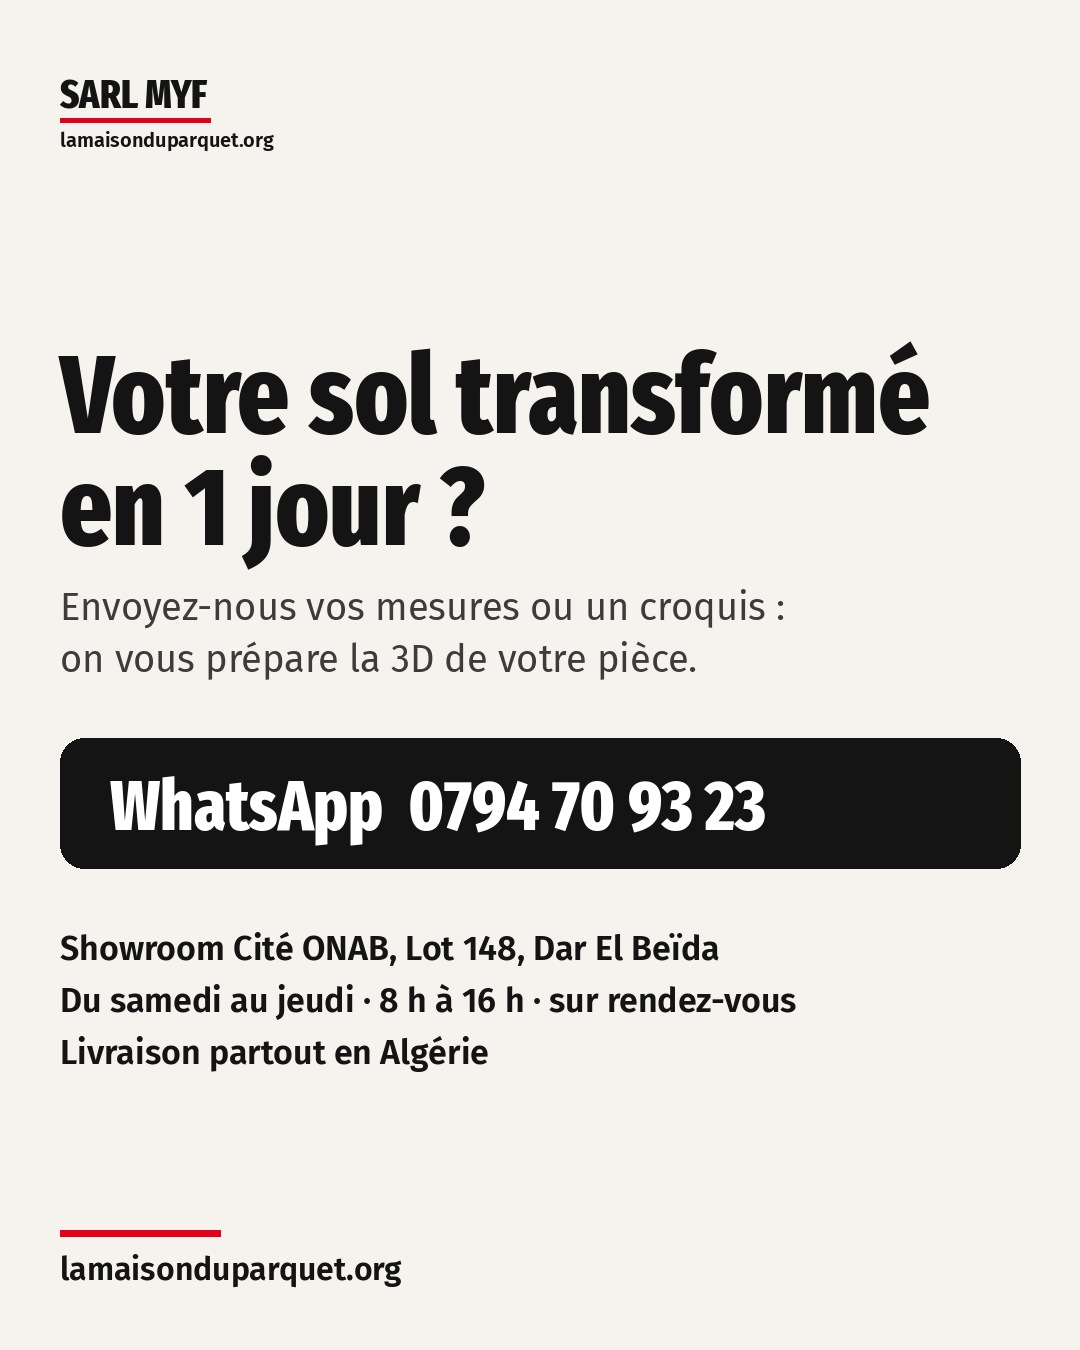
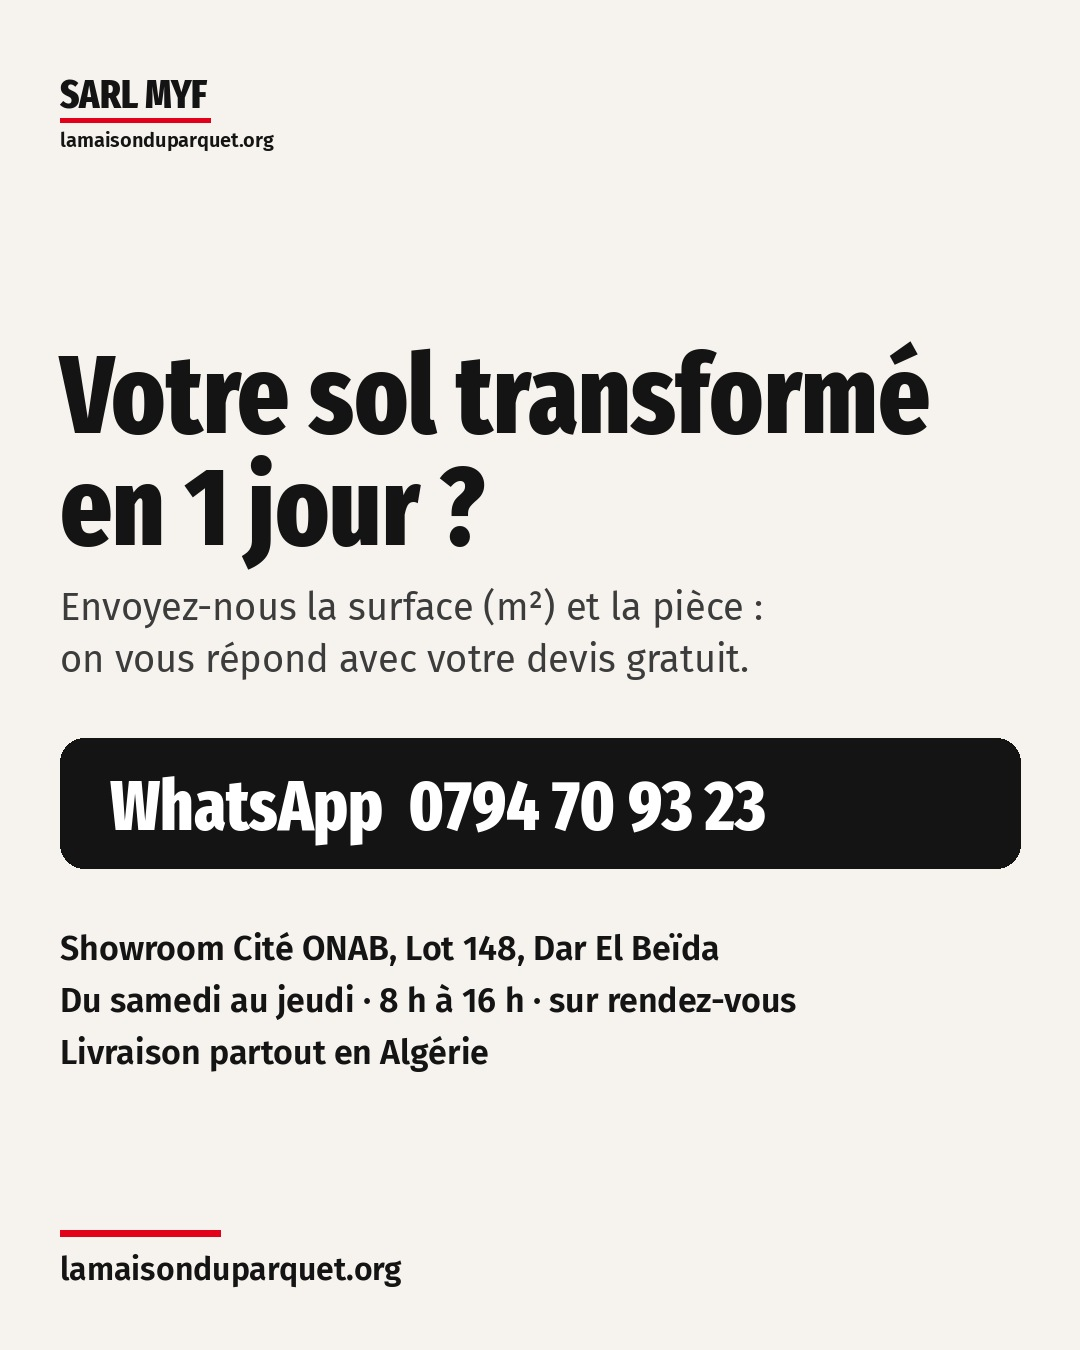
Instagram parquet uniquement : 21 stories pour les stories à la une, 5 couvertures, 2 carrousels, plan daté 12/11-28/11
Claude-Session: https://claude.ai/code/session_01XoeDEVkNFXq4oExWHbkpus

Changed region(s): [[0.1833, 0.4356, 0.7028, 0.4978]]

diff --git a/ads/insta/stories.py b/ads/insta/stories.py
@@ -1,0 +1,114 @@
+"""Pack de stories parquet 1080x1920 pour remplir les stories à la une (0 crédit).
+
+Usage : python3 stories.py <dossier de sortie>
+Sources : visuels déjà signés (ads/visuels/out, out2, catalogue/out). Aucun prix.
+"""
+import sys, os
+from PIL import Image, ImageDraw, ImageFont, ImageFilter
+
+OUT = sys.argv[1]
+R = os.path.dirname(os.path.abspath(__file__)); A = os.path.join(R, "..")
+FD = os.path.join(A, "..", "site", "assets", "fonts")
+def F(n, s): return ImageFont.truetype(os.path.join(FD, n), s)
+TITLE, SEMI, REG = "fira-sans-extra-condensed-800.woff2", "fira-sans-600.woff2", "fira-sans-400.woff2"
+RED, INK, CREAM = (226, 0, 26), (20, 20, 20), (246, 243, 238)
+W, H = 1080, 1920
+V = lambda p: os.path.join(A, "visuels", p)
+
+def wrap(d, txt, font, maxw):
+    out, line = [], ""
+    for w in txt.split():
+        t = (line + " " + w).strip()
+        if d.textlength(t, font=font) <= maxw: line = t
+        else: out.append(line); line = w
+    return out + [line]
+
+def fill(im, w, h):
+    r = max(w / im.width, h / im.height); im = im.resize((round(im.width * r), round(im.height * r)), Image.LANCZOS)
+    x, y = (im.width - w) // 2, (im.height - h) // 2; return im.crop((x, y, x + w, y + h))
+
+def frame(d, dark):
+    c = (255, 255, 255) if dark else INK
+    d.rectangle([60, 90, 70, 150], fill=RED); d.text((88, 92), "LA MAISON DU PARQUET", font=F(SEMI, 30), fill=c)
+    d.text((88, 128), "Parquet EGGER · en stock à Alger", font=F(REG, 24), fill=c)
+    d.rounded_rectangle([60, H - 210, W - 60, H - 90], radius=26, fill=INK)
+    d.text((100, H - 190), "WhatsApp 0794 70 93 23", font=F(TITLE, 54), fill=(255, 255, 255))
+    d.text((100, H - 128), "lamaisonduparquet.org · showroom Dar El Beïda", font=F(SEMI, 24), fill=(220, 220, 220))
+
+def photo(src, titre, sous, path):
+    im = Image.open(src).convert("RGB")
+    bg = fill(im, W, H).filter(ImageFilter.GaussianBlur(40)); bg = Image.blend(bg, Image.new("RGB", (W, H), (15, 12, 10)), 0.45)
+    d = ImageDraw.Draw(bg); frame(d, True)
+    ft = F(TITLE, 84); y = 230
+    for l in wrap(d, titre, ft, W - 120): d.text((60, y), l, font=ft, fill=(255, 255, 255)); y += 88
+    if sous:
+        for l in wrap(d, sous, F(REG, 36), W - 120): d.text((60, y + 6), l, font=F(REG, 36), fill=(235, 230, 222)); y += 46
+    top, bot = y + 40, H - 250
+    r = min((W - 120) / im.width, (bot - top) / im.height); fg = im.resize((round(im.width * r), round(im.height * r)), Image.LANCZOS)
+    m = Image.new("L", fg.size, 0); ImageDraw.Draw(m).rounded_rectangle([0, 0, fg.width, fg.height], radius=28, fill=255)
+    bg.paste(fg, ((W - fg.width) // 2, top + (bot - top - fg.height) // 2), m)
+    bg.save(path, quality=93)
+
+def texte(fond, kicker, titre, corps, path):
+    src = Image.open(fond).convert("RGB")
+    src = src.crop((0, 0, int(src.width * 0.72), int(src.height * 0.72)))   # retire le logo du coin bas-droit
+    bg = fill(src, W, H)
+    d = ImageDraw.Draw(bg); frame(d, False)
+    ft, fb = F(TITLE, 96), F(REG, 40)
+    lt = wrap(d, titre, ft, W - 200); lb = sum([wrap(d, p, fb, W - 200) for p in corps], [])
+    h = 90 + 60 + len(lt) * 100 + 30 + len(lb) * 54 + 70
+    y0 = (H - h) // 2
+    d.rounded_rectangle([60, y0, W - 60, y0 + h], radius=34, fill=CREAM)
+    d.rectangle([60, y0 + 50, 72, y0 + 120], fill=RED); d.text((100, y0 + 54), kicker, font=F(SEMI, 32), fill=RED)
+    y = y0 + 140
+    for l in lt: d.text((100, y), l, font=ft, fill=INK); y += 100
+    y += 30
+    for l in lb: d.text((100, y), l, font=fb, fill=(55, 55, 55)); y += 54
+    bg.save(path, quality=93)
+
+def cover(word, sub, path):
+    im = Image.new("RGB", (1080, 1920), CREAM); d = ImageDraw.Draw(im)
+    cx, cy, r = 540, 960, 300
+    d.ellipse([cx - r, cy - r, cx + r, cy + r], fill=(255, 255, 255), outline=RED, width=14)
+    f = F(TITLE, 120 if len(word) < 8 else 96)
+    tw = d.textlength(word, font=f); d.text((cx - tw / 2, cy - 80), word, font=f, fill=INK)
+    fs = F(SEMI, 40); tw = d.textlength(sub, font=fs); d.text((cx - tw / 2, cy + 60), sub, font=fs, fill=RED)
+    im.save(path, quality=93)
+
+if __name__ == "__main__":
+    B = lambda *p: os.path.join(OUT, *p)
+    for g in ["1-decors", "2-showroom", "3-pose", "4-questions", "5-devis", "couvertures"]: os.makedirs(B(g), exist_ok=True)
+    C = lambda f: V(os.path.join("catalogue", "out", f))
+    # 1. DÉCORS : les 5 références en stock
+    photo(C("0-en-stock.jpg"), "5 décors en stock à Alger", "Glissez pour les découvrir", B("1-decors", "01.jpg"))
+    for i, (f, t, s) in enumerate([("el2863-asgil.jpg", "Chêne Asgil miel · EL2863", "Chaleureux, idéal pour le salon"),
+                                   ("el1061-achensee.jpg", "Chêne Achensee · EL1061", "Clair et apaisant, parfait en chambre"),
+                                   ("el2970-nord.jpg", "Chêne du Nord naturel · EL2970", "Des nœuds pleins de caractère"),
+                                   ("el2416-melba.jpg", "Chêne Melba beige · EL2416", "Version Aqua : cuisine ouverte, entrée"),
+                                   ("el1055-bardolino.jpg", "Chêne Bardolino · EL1055", "Ni trop clair ni trop foncé, intemporel")], 2):
+        photo(C(f), t, s, B("1-decors", f"{i:02d}.jpg"))
+    # 2. SHOWROOM : vraies photos
+    for i, (f, t, s) in enumerate([("out2/29.jpg", "Notre showroom à Dar El Beïda", "Venez voir et toucher les décors"),
+                                   ("out2/16.jpg", "Les décors côte à côte", "Comparez les teintes en vrai, à la lumière du jour"),
+                                   ("out2/17.jpg", "Clair ou foncé ?", "On pose les lames au sol pour vous aider à choisir"),
+                                   ("out2/18.jpg", "En stock, prêt à livrer", "Livraison partout en Algérie")], 1):
+        photo(V(f), t, s, B("2-showroom", f"{i:02d}.jpg"))
+    texte(V("out2/30.jpg"), "SUR RENDEZ-VOUS", "Venez nous voir", ["Cité ONAB, Lot 148, Dar El Beïda.", "Du samedi au jeudi, de 8 h à 16 h.", "Google Maps : « La Maison du Parquet EGGER Dar El Beïda »."], B("2-showroom", "05.jpg"))
+    # 3. POSE
+    texte(V("out/12.jpg"), "LA POSE", "Sur votre carrelage", ["Pas besoin de casser : les lames se clipsent sur une sous-couche, directement sur le carrelage existant (plan et bien fixé)."], B("3-pose", "01.jpg"))
+    texte(V("out/15.jpg"), "LA POSE", "En une journée", ["Une pièce est posée en un jour. Pas de démolition, pas de séchage : vous l'utilisez le soir même."], B("3-pose", "02.jpg"))
+    texte(V("out2/25.jpg"), "LA POSE", "Sans gravats ni poussière", ["Pas de marteau-piqueur, pas de colle. Vos meubles reviennent tout de suite."], B("3-pose", "03.jpg"))
+    photo(V("out/03.jpg"), "Votre carrelage, transformé", "Le même sol, sans travaux", B("3-pose", "04.jpg"))
+    # 4. QUESTIONS (FAQ du site)
+    for i, (fond, q, rep) in enumerate([("out2/26.jpg", "Et dans la cuisine ?", "Choisissez le Chêne Melba beige EL2416 en version Aqua : il résiste à l'eau pendant 24 heures. En salle de bain, où l'eau stagne, on le déconseille."),
+                                        ("out/15.jpg", "Classe 31 ou 32 ?", "Classe 31 : parfait en chambre. Classe 32 : usage intense, pour le salon, l'entrée ou la cuisine."),
+                                        ("out2/19.jpg", "D'où vient le parquet ?", "Des usines européennes du groupe EGGER. Les cartons portent la mention Made in Germany. Majorité de bois, sans PVC, Écolabel européen."),
+                                        ("out/12.jpg", "Pourquoi sur rendez-vous ?", "Pour qu'un conseiller soit là rien que pour vous pendant 30 minutes : décors en stock, conseils et devis sur place, sans attente.")], 1):
+        texte(V(fond), "VOS QUESTIONS", q, [rep], B("4-questions", f"{i:02d}.jpg"))
+    # 5. DEVIS
+    texte(V("out2/25.jpg"), "DEVIS GRATUIT", "Votre devis en 3 étapes", ["1. La surface de chaque pièce (m²).", "2. La pièce et le décor qui vous plaît.", "3. On vous répond sur WhatsApp, ou on vous reçoit au showroom."], B("5-devis", "01.jpg"))
+    texte(V("out/15.jpg"), "ÉCRIVEZ-NOUS", "0794 70 93 23", ["Sur WhatsApp, envoyez simplement « PARQUET » avec vos m².", "Livraison partout en Algérie."], B("5-devis", "02.jpg"))
+    # Couvertures des stories à la une
+    for i, (w, s) in enumerate([("DÉCORS", "5 en stock"), ("SHOWROOM", "Dar El Beïda"), ("POSE", "sur carrelage"), ("QUESTIONS", "vos réponses"), ("DEVIS", "WhatsApp")], 1):
+        cover(w, s, B("couvertures", f"{i}-{w.lower().replace('é', 'e')}.jpg"))
+    print("ok")

diff --git a/ads/insta/build.py b/ads/insta/build.py
@@ -58,13 +58,13 @@ def slide_cover(img, kicker, title, sub, path):
     d.text((60, H - 96), "Glissez  >>", font=F(SEMI, 34), fill=(255, 255, 255))
     im.save(path, quality=93)
 
-def slide_cta(path, titre="Votre projet sur mesure ?"):
+def slide_cta(path, titre="Votre projet sur mesure ?", lignes=("Envoyez-nous vos mesures ou un croquis :", "on vous prépare la 3D de votre pièce.")):
     im = Image.new("RGB", (W, H), CREAM); d = ImageDraw.Draw(im)
     logo(d, 60, 70)
     y = 330
     for l in wrap(d, titre, F(TITLE, 110), W - 120): d.text((60, y), l, font=F(TITLE, 110), fill=INK); y += 112
     y += 30
-    for t in ["Envoyez-nous vos mesures ou un croquis :", "on vous prépare la 3D de votre pièce."]:
+    for t in lignes:
         d.text((60, y), t, font=F(REG, 38), fill=(60, 60, 60)); y += 52
     y += 50
     d.rounded_rectangle([60, y, W - 60, y + 130], radius=24, fill=INK)
@@ -97,7 +97,7 @@ if __name__ == "__main__":
     slide_cta(f"{c}/06.jpg")
     # ---------- 2. Slide de fin réutilisable (cuisine, chambre) ----------
     slide_cta(os.path.join(OUT, "fin-carrousel-meubles.jpg"))
-    slide_cta(os.path.join(OUT, "fin-carrousel-parquet.jpg"), "Votre sol transformé en 1 jour ?")
+    slide_cta(os.path.join(OUT, "fin-carrousel-parquet.jpg"), "Votre sol transformé en 1 jour ?", ("Envoyez-nous la surface (m²) et la pièce :", "on vous répond avec votre devis gratuit."))
     # ---------- 3. Stories à la une ----------
     h = os.path.join(OUT, "stories-a-la-une"); os.makedirs(h, exist_ok=True)
     for i, (w, s) in enumerate([("PARQUET", "5 décors en stock"), ("MEUBLES", "sur mesure"), ("AVANT", "/ après"), ("SHOWROOM", "Dar El Beïda"), ("AVIS", "clients"), ("DEVIS", "WhatsApp")], 1):

diff --git a/ads/insta/PLAN-INSTA.md b/ads/insta/PLAN-INSTA.md
@@ -1,139 +1,127 @@
-# Plan Instagram @la.maison.du.parquett · 2 semaines (0 crédit)
+# Instagram @la.maison.du.parquett · PARQUET UNIQUEMENT · 0 crédit
 
-Contenu prêt dans `ads/insta/out/`.
-- Je ne peux pas publier à votre place. Vous postez, je prépare tout.
-- Heure de publication : **19 h**, les **mardi, jeudi et samedi**. Une story chaque jour.
+Aucun prix nulle part. Publications à **19 h**.
 
-## 1. Profil (à faire aujourd'hui, 10 min)
+Tous les fichiers sont dans `ads/insta/` :
+- `stories/` : 21 stories, rangées par rubrique à la une ;
+- `stories/couvertures/` : 5 couvertures ;
+- `carrousels/` : 2 carrousels prêts.
 
-**Nom** (le champ « Nom » compte dans la recherche Instagram) :
-```
-La Maison du Parquet · Parquet & Meubles Alger
-```
+## Comment remplir les stories à la une (vous n'en avez pas encore)
+1. Publier les stories d'une rubrique, dans l'ordre (01, 02…).
+2. Profil → « + Nouveau » (à la une) → cocher ces stories → nom de la rubrique → « Modifier la couverture » → choisir l'image de `stories/couvertures/`.
+3. Une rubrique par jour, comme dans le calendrier ci-dessous. En 5 jours, le profil est complet.
 
-**Bio** :
-```
-Parquet EGGER en stock à Alger 🏠
-Posé sur votre carrelage en 1 journée
-Meubles sur mesure : dressing, cuisine, chambre
-📍 Showroom Dar El Beïda · sur RDV · livraison 58 wilayas
-💬 WhatsApp 0794 70 93 23
-```
+## Profil (aujourd'hui)
+- **Nom** :
+  ```
+  La Maison du Parquet · Parquet Alger
+  ```
+- **Bio** :
+  ```
+  Parquet EGGER en stock à Alger 🏠
+  Posé sur votre carrelage en 1 journée
+  📍 Showroom Dar El Beïda · sur RDV
+  Livraison partout en Algérie
+  💬 WhatsApp 0794 70 93 23
+  ```
+- **Lien** : lamaisonduparquet.org. **Bouton** : WhatsApp.
 
-**Profil pro** :
-- Lien : lamaisonduparquet.org.
-- Bouton de contact : WhatsApp.
-- Catégorie : « Revêtement de sol » ou « Fabricant de meubles ».
+## Calendrier
 
-**Stories à la une** : 6 couvertures dans `stories-a-la-une/`.
-- Parquet · Meubles · Avant/Après · Showroom · Avis · Devis.
-- Mettre dans chaque rubrique au moins 3 stories existantes.
-
-**Épingler 3 publications** :
-1. le carrousel dressing ;
-2. le visuel « Votre carrelage, transformé » ;
-3. un avant/après.
-
-## 2. Les 4 thèmes (on alterne)
-1. **Parquet** : décors en stock, pose sur carrelage, Aqua (cuisine, entrée).
-2. **Meubles sur mesure** : dressing, cuisine, chambre, en 3D puis réalisés.
-3. **Preuve** : avant/après, vraies photos de chantier, avis clients. C'est ce qui vend le plus.
-4. **Showroom** : venir voir et toucher les décors (objectif n° 1 des pubs).
-
-## 3. Calendrier
-
-| Jour | Format | Fichier | Thème |
+| Date | Quoi | Fichiers | Ajouter à la une |
 |---|---|---|---|
-| Mar S1 | Carrousel 6 photos | `out/carrousel-dressing/01→06` | Meubles |
-| Jeu S1 | Reel 11 s | `out/reel-dressing-12s.mp4` + musique tendance Instagram | Meubles |
-| Sam S1 | Publication | `visuels/out/03.jpg` (carrelage → parquet) | Parquet |
-| Mar S2 | Carrousel | `meubles/cuisine-famille/signature/signature-1→8` + `out/fin-carrousel-meubles.jpg` | Meubles |
-| Jeu S2 | Reel | `pub3/pub-showroom-A.mp4` (version darija : B) | Showroom |
-| Sam S2 | Carrousel | `meubles/chambre-H1357-U705/photos-4k-v2/` (6 photos) + `out/fin-carrousel-meubles.jpg` | Meubles |
+| **Jeu 12/11** | Profil + 6 stories | `stories/1-decors/01→06` | **DÉCORS** (couverture 1) |
+| **Ven 13/11** | 5 stories | `stories/2-showroom/01→05` | **SHOWROOM** (couverture 2) |
+| **Sam 14/11, 19 h** | 📌 Carrousel 7 photos + 4 stories | `carrousels/1-references/01→07` + `stories/3-pose/01→04` | **POSE** (couverture 3) |
+| **Dim 15/11** | 4 stories | `stories/4-questions/01→04` | **QUESTIONS** (couverture 4) |
+| **Lun 16/11** | 2 stories + repartager le carrousel en story | `stories/5-devis/01→02` | **DEVIS** (couverture 5) |
+| **Mar 17/11, 19 h** | Reel | `ads/pub3/pub-showroom-A.mp4` | – |
+| **Mer 18/11** | Story sondage « Carrelage ou parquet ? » | `visuels/out/03.jpg` | POSE |
+| **Jeu 19/11, 19 h** | 📌 Publication | `visuels/out/03.jpg` | – |
+| **Sam 21/11, 19 h** | 📌 Carrousel 6 photos (vraies photos du showroom) | `carrousels/2-showroom/01→06` | – |
+| **Mar 24/11, 19 h** | Reel en darija | `ads/pub3/pub-showroom-B.mp4` | – |
+| **Jeu 26/11, 19 h** | Publication | `visuels/out/10.jpg` (quel parquet pour quelle pièce) | – |
+| **Sam 28/11, 19 h** | Publication | `visuels/out/04.jpg` (Melba Aqua, cuisine) | – |
 
-### Légendes prêtes
+📌 = épingler en haut du profil : les 2 carrousels et le carrelage transformé.
 
-**Mar S1 · Dressing**
-```
-Un dressing qui vous ressemble, au millimètre près ✨
-Double penderie, tiroirs, vitrines éclairées, coiffeuse et entrée assorties : tout est conçu en 3D avec vous avant fabrication.
-Envoyez vos mesures ou un croquis, on vous prépare la 3D de votre pièce.
-📍 Showroom Dar El Beïda · sur rendez-vous · livraison partout en Algérie
-💬 WhatsApp : 0794 70 93 23
-👉 lamaisonduparquet.org
-#dressing #meublesurmesure #dressingsurmesure #alger #algerie #decoration #interiordesign #dzpost #darelbeida #amenagement
-```
+**Les autres jours** : une story par jour.
+- Repartager la publication du jour.
+- Ou filmer 10 s au showroom (une main qui passe sur un décor, des cartons en stock).
+- Ou une vraie pose chez un client.
 
-**Jeu S1 · Reel dressing**
-```
-De la 3D à votre chambre 👉 un dressing sur mesure, pensé pour vous.
-Dites-nous « DRESSING » sur WhatsApp et recevez la 3D de votre projet.
-💬 0794 70 93 23 · 👉 lamaisonduparquet.org
-#dressing #meublesurmesure #alger #algerie #decoration #renovation #dzpost
-```
+## Légendes à copier
 
-**Sam S1 · Carrelage → parquet**
+**Sam 14/11 · Carrousel « 5 références »**
 ```
-Vous en avez marre de votre carrelage ? On ne casse rien 🏠
-Le parquet EGGER se pose directement dessus, en une journée, sans gravats ni poussière.
+5 décors EGGER en stock à Alger : lequel est fait pour vous ? ✨
+Asgil miel, Achensee, Chêne du Nord, Melba beige Aqua, Bardolino : glissez pour voir chaque référence.
 📍 Showroom Dar El Beïda · en stock · livraison partout en Algérie
 💬 WhatsApp : 0794 70 93 23
 👉 lamaisonduparquet.org
-#parquet #egger #alger #algerie #renovation #decoration #maison #dzpost #darelbeida
+#parquet #egger #alger #algerie #decoration #renovation #maison #dzpost #darelbeida #parquetstratifie
 ```
 
-**Mar S2 · Cuisine**
-```
-Chêne et noir mat : la cuisine qui ne se démode pas ✨
-Colonne four et café, tiroirs organisés, chauffe-eau caché et ventilé, LED sous les meubles.
-Votre cuisine en 3D avant fabrication : envoyez-nous vos mesures.
-📍 Showroom Dar El Beïda · sur rendez-vous
-💬 WhatsApp : 0794 70 93 23
-👉 lamaisonduparquet.org
-#cuisine #cuisinemoderne #cuisinesurmesure #alger #algerie #decoration #dzpost #interiordesign
-```
-
-**Jeu S2 · Reel showroom**
+**Mar 17/11 · Reel showroom**
 ```
 Un parquet se choisit les pieds dessus 👣
 Venez voir et toucher les 5 décors en stock au showroom de Dar El Beïda.
-Du samedi au jeudi, 8 h à 16 h, sur rendez-vous.
+Du samedi au jeudi, de 8 h à 16 h, sur rendez-vous.
 💬 Réservez votre visite : 0794 70 93 23
 👉 lamaisonduparquet.org
 #parquet #showroom #egger #alger #darelbeida #algerie #decoration
 ```
 
-**Sam S2 · Chambre**
+**Jeu 19/11 · Carrelage transformé**
 ```
-Une chambre complète, pensée d'un seul geste ✨
-Tête de lit chêne, chevets, bureau, placard et mur TV assortis.
-On dessine votre chambre en 3D, vous validez, on fabrique.
+Marre de votre carrelage ? On ne casse rien 🏠
+Le parquet EGGER se pose directement dessus, en une journée, sans gravats ni poussière.
+📍 Showroom Dar El Beïda · livraison partout en Algérie
+💬 WhatsApp : 0794 70 93 23
+👉 lamaisonduparquet.org
+#parquet #egger #alger #algerie #renovation #carrelage #decoration #dzpost
+```
+
+**Sam 21/11 · Carrousel showroom**
+```
+Bienvenue chez nous 👋
+Les décors côte à côte, les lames au sol pour comparer, le stock prêt à partir : venez choisir en vrai.
+📍 Cité ONAB, Lot 148, Dar El Beïda · sur rendez-vous
+💬 WhatsApp : 0794 70 93 23
+👉 lamaisonduparquet.org
+#parquet #showroom #egger #alger #darelbeida #algerie #decoration
+```
+
+**Mar 24/11 · Reel darija**
+```
+Marhba bikoum au showroom 👋 Venez choisir votre parquet sur place.
+📍 Dar El Beïda · sur rendez-vous · livraison partout en Algérie
+💬 0794 70 93 23 · 👉 lamaisonduparquet.org
+#parquet #egger #alger #dzpost #algerie #decoration
+```
+
+**Jeu 26/11 · Quel parquet pour quelle pièce**
+```
+Salon, chambre, cuisine : quel parquet choisir ? 🤔
+Miel pour le salon, Achensee pour la chambre, Melba Aqua pour la cuisine ouverte. On vous conseille selon vos pièces.
 📍 Showroom Dar El Beïda · sur rendez-vous
 💬 WhatsApp : 0794 70 93 23
 👉 lamaisonduparquet.org
-#chambre #meublesurmesure #dressing #alger #algerie #decoration #dzpost #interiordesign
+#parquet #egger #alger #algerie #decoration #maison #conseil
 ```
 
-## 4. Stories (1 par jour, 2 minutes)
-| Jour | Story |
-|---|---|
-| Sam | Sondage « Carrelage ou parquet ? » sur une photo de parquet |
-| Dim | Coulisses atelier : panneau, découpe, chant (vraie photo au téléphone) |
-| Lun | Question « Quelle pièce voulez-vous refaire ? » (boîte à questions) |
-| Mar | Partager la publication du jour + « Nouveau » |
-| Mer | Vidéo de 10 s au showroom : la main qui passe sur un décor |
-| Jeu | Partager le reel + lien vers le site |
-| Ven | Avis client ou capture WhatsApp (avec accord, nom masqué) |
+**Sam 28/11 · Melba Aqua**
+```
+Un parquet dans la cuisine ? Oui, avec le Melba beige Aqua 💧
+Il résiste à l'eau pendant 24 heures : idéal pour la cuisine ouverte et l'entrée.
+📍 Showroom Dar El Beïda · en stock
+💬 WhatsApp : 0794 70 93 23
+👉 lamaisonduparquet.org
+#parquet #egger #cuisine #alger #algerie #decoration #aqua
+```
 
-## 5. Règles qui font la différence
-- **Répondre aux DM et commentaires en moins d'une heure**, avec les réponses types du skill `community-manager-lmdp`. L'algorithme et les clients le voient.
-- **Vraies photos > 3D** : à chaque pose de parquet ou de meuble, prendre 3 photos et 1 vidéo de 10 s **à la lumière du jour**, téléphone à l'horizontale, pièce rangée. Sur un avant/après, garder le même angle.
-  - Envoyez-les-moi : je fais les montages gratuitement.
-- Sur les rendus 3D, mettre « Conception 3D » (c'est déjà sur les slides) : on reste honnête avec le client.
-- **Aucun prix** dans les publications : on demande les m² sur WhatsApp.
-- Les pubs payantes continuent de pousser vers le **showroom**. L'organique sert à rassurer ceux qui viennent du profil.
-
-## 6. Bilan dans 2 semaines
-Envoyez-moi une capture des statistiques du compte (abonnés, comptes touchés, visites du profil, clics WhatsApp).
-
-On garde ce qui marche (souvent : avant/après et reels) et on double ce format.
+## Réflexes d'expert
+- Répondre aux messages et aux commentaires **en moins d'une heure** (réponses types dans le skill `community-manager-lmdp`). Prix demandé = on demande les m² et la pièce.
+- **À chaque pose chez un client** : 3 photos et 1 vidéo de 10 s à la lumière du jour, plus si possible le même angle avant la pose. Ce sera le meilleur contenu. Je le monte gratuitement.
+- Dans 2 semaines : capture des statistiques du compte (comptes touchés, visites du profil, clics WhatsApp) pour faire le bilan.

diff --git a/ads/meubles/A-REPRENDRE.md b/ads/meubles/A-REPRENDRE.md
@@ -58,12 +58,12 @@ Note de passation : lire ce fichier au début de chaque nouvelle conversation, p
   2. la marge à ajouter.
 - Le client a montré un **échantillon de panneau chêne doré à fil fin**. Il faut savoir si le dressing se refait dans ce décor ; avec le fil du bois, ça tient toujours sur 6 panneaux.
 
-### Instagram (12/11) — `ads/insta/`
-- Plan sur 2 semaines, bio et légendes prêtes : `PLAN-INSTA.md`.
-- Fichiers prêts dans `out/` :
-  - carrousel dressing (6 slides) ;
-  - reel 11 s ;
-  - 6 couvertures de stories à la une ;
-  - 2 slides de fin (meubles, parquet).
-- Générés avec `python3 build.py <images u156> out`, 0 crédit.
-- Prochaine étape : le client publie. Bilan dans 2 semaines avec une capture des statistiques. Lui demander de vraies photos de chantier.
+### Instagram (12/11) — `ads/insta/` · **PARQUET UNIQUEMENT** (consigne du client)
+- Plan daté, bio et légendes : `PLAN-INSTA.md`, calendrier du 12/11 au 28/11.
+- Stories pour créer les stories à la une (le compte n'en avait pas) :
+  - `stories/` : 21 stories, rubriques Décors · Showroom · Pose · Questions · Devis ;
+  - `stories/couvertures/`.
+  - Générées avec `python3 stories.py stories`.
+- Carrousels prêts : `carrousels/1-references` (5 décors) et `carrousels/2-showroom` (vraies photos).
+- Le kit meubles (`out/`, `build.py`) n'est **pas** à publier sur le compte.
+- Prochaine étape : bilan le 26/11 avec une capture des statistiques ; demander de vraies photos de pose.
